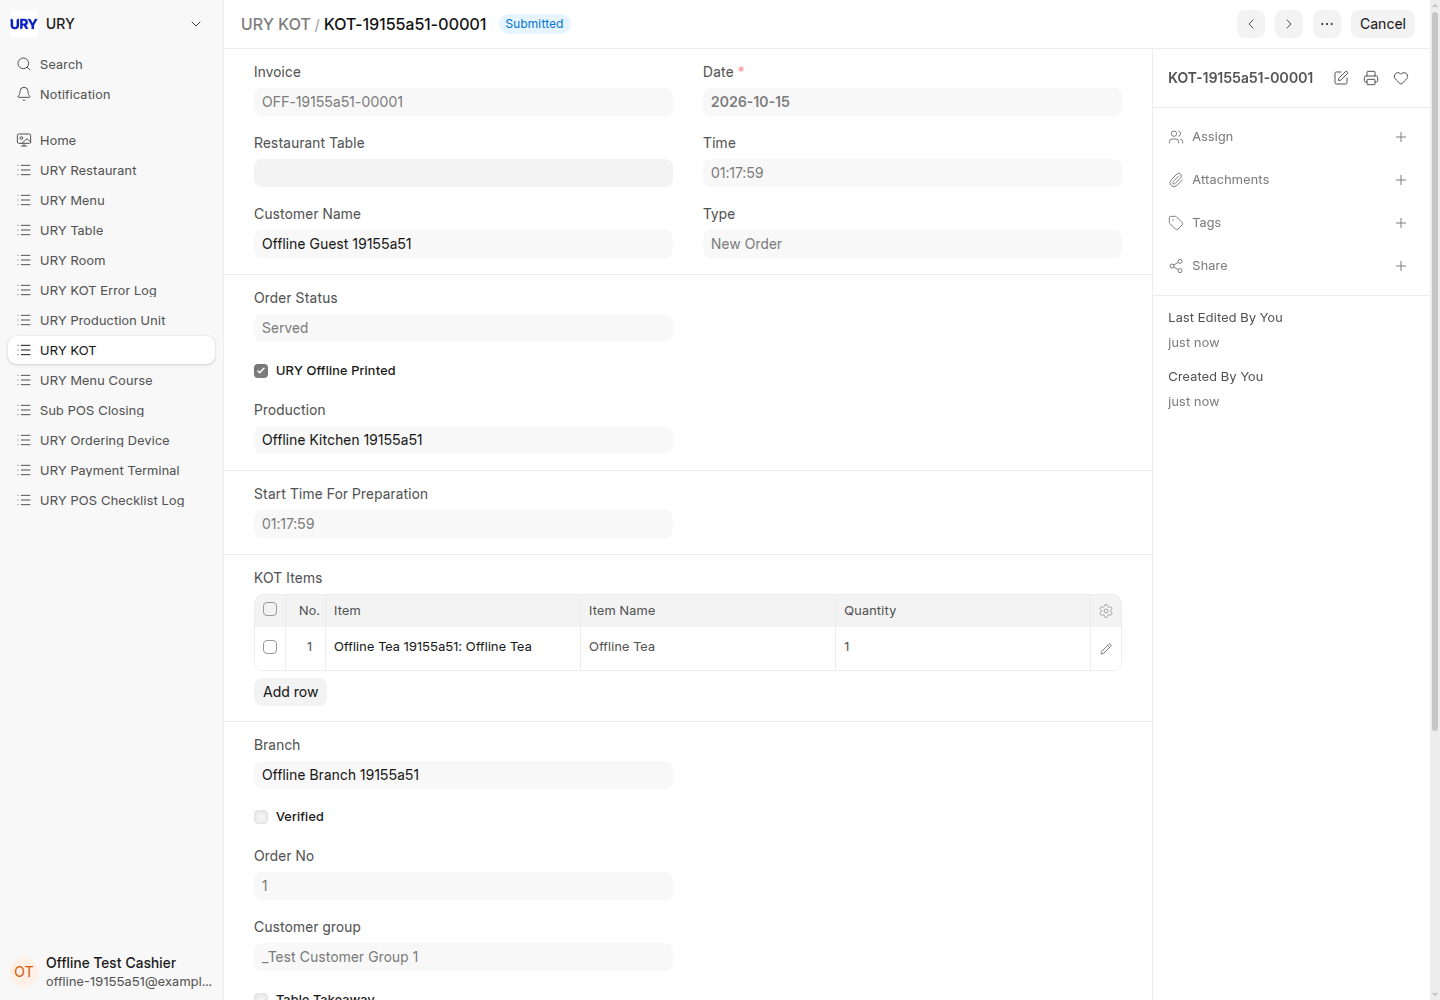
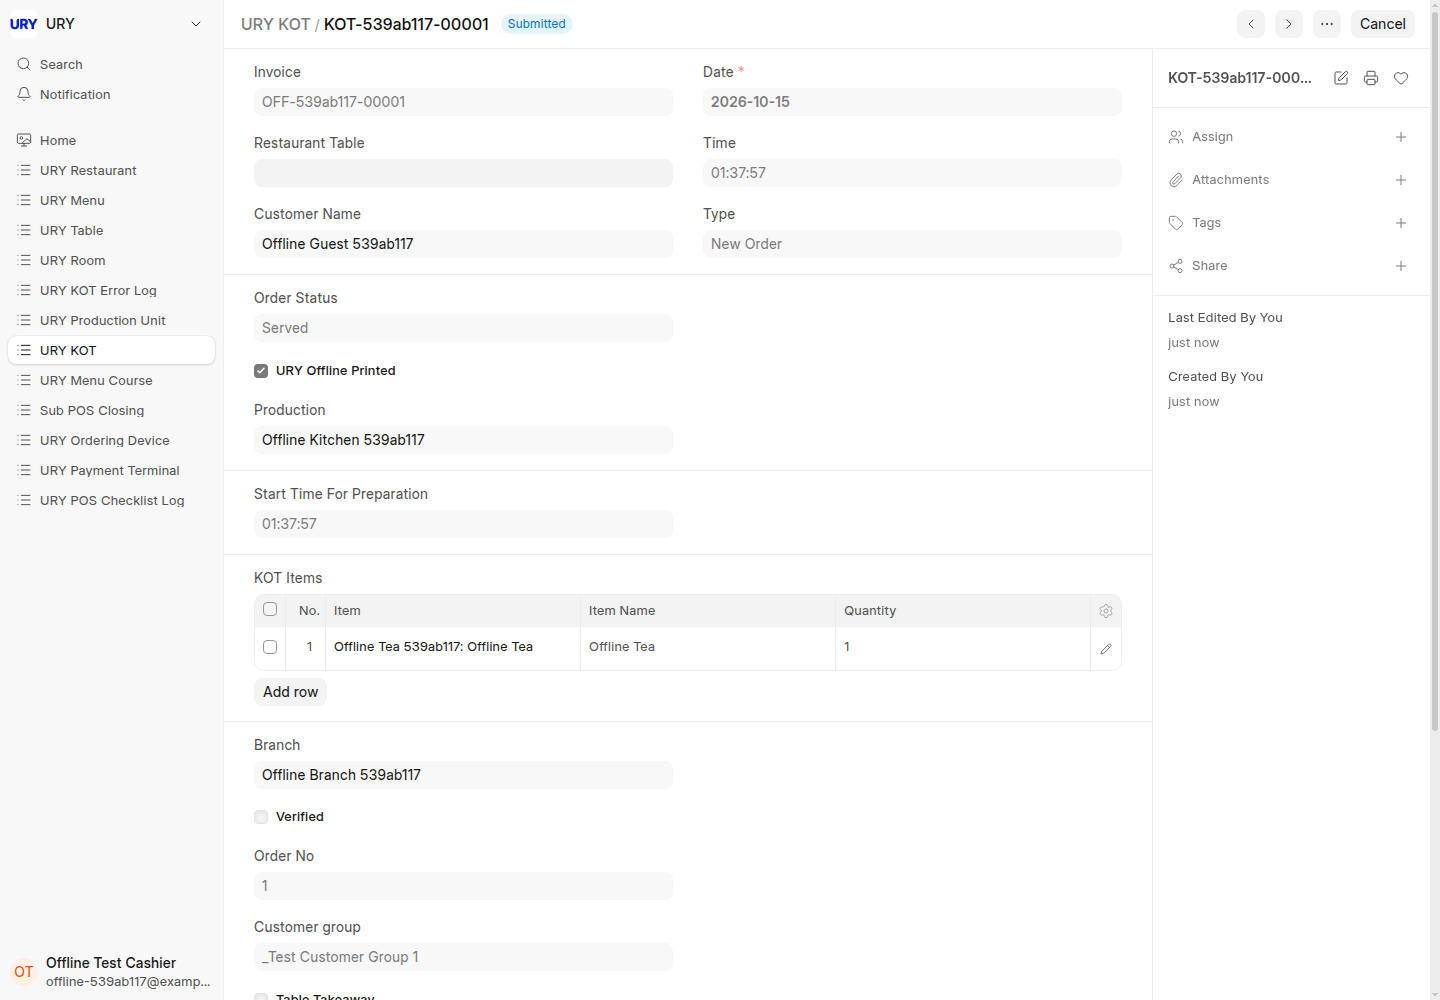
docs: refresh O2 bench screenshots and RED GREEN evidence

diff --git a/docs/evidence/O2/test-output.md b/docs/evidence/O2/test-output.md
@@ -1,0 +1,121 @@
+# O2 native bench evidence
+
+Disposable Docker project `ury-fixes-o2s6-mijnpjnz`; only published address
+`127.0.0.1:18723`. Demo site `ury.localhost`. Frappe 16.52.0,
+ERPNext 16.50.0, Python 3.14.8, Node 24.21.0, MariaDB 11.8, Redis 6.2.
+The bench uses copied worktree sources, native documents, and native exported
+fixtures. Only external printer/realtime seams are intercepted in tests.
+
+## RED and GREEN
+
+Initial tests-only RED `37a357748a8838004b5191c4b5612544fd8c1c11`, on unchanged
+O1 production:
+
+```text
+bench --site ury.localhost run-tests --app ury --module ury.tests.test_offline_replay
+Ran 17 tests in 59.252s
+FAILED (failures=17)
+AssertionError: Lists differ: [1.0] != [2, 1]
+AssertionError: ValidationError not raised
+```
+
+Failures include subtests; no import or setup errors. Missing append,
+capture/refusal, and offline-KOT behaviour. Two baseline protections pass.
+
+Production-only GREEN `4c9687b9dd25c969de2d08002454cdfed223f0b8`:
+
+```text
+Ran 17 tests in 53.730s
+OK
+```
+
+Independent review regression, tests-only RED
+`847c97464b480313ae0901b53eb187180a955fcd`:
+
+```text
+Ran 18 tests
+FAILED (failures=1)
+AssertionError: 'Draft' != 'Failure'
+```
+
+The occupied gate for a non-billing append without snapshot fields was
+restored in production-only GREEN `9d29e6c9678cf129ec5f60094fd2c5471035c452`.
+That candidate, including one passing defaults protection, reports:
+
+```text
+Ran 19 tests in 78.828s
+OK
+```
+
+The defaults protection was strengthened to make the profile disagree with
+the saved order: tests-only RED `0934894f`. The saved invoice header and first
+child are explicitly set to a real leaf cost centre before the profile changes:
+
+```text
+bench --site ury.localhost run-tests --app ury --module ury.tests.test_offline_replay --test test_expected_total_validation_does_not_reset_saved_invoice_defaults
+Ran 1 test in 8.175s
+FAILED (failures=1)
+AssertionError: 'Offline Other ed6962ce-4235-4697-8498-b2e2a0c56b45 - URY' != 'Main - URY'
+```
+
+Native ERPNext v16's `set_missing_values(for_validate=True)` preserves saved
+header and nonempty child accounting defaults while preparing new lines.
+Production-only GREEN `60ddd45eef9ee44a90160d7e3693184264c44af1`:
+
+```text
+Final focused module (including the strengthened regression):
+Ran 19 tests in 77.979s
+OK
+
+Full-app run on the same production fix:
+Ran 31 tests in 126.245s
+OK
+Ran 329 existing tests in 2.464s
+FAILED (failures=1, errors=3)
+frappe.exceptions.DoesNotExistError: DocType Payment Gateway not found
+```
+
+The full-app run preceded the test's final explicit nonempty cost-centre
+strengthening. The final 19-test focused run exercises that strengthened
+test on the identical production fix. The 31-test group includes all
+12 O1 tests and 19 O2 tests. There are no skipped tests in the focused groups.
+
+The final screenshot readback is one invoice and one KOT for a double send:
+`OFF-539ab117-00001`, `KOT-539ab117-00001`, Served, `ury_offline_printed=1`.
+Both PNGs were captured from the running native Desk as a demo cashier using
+fresh headless Chrome profiles, which were removed after each capture.
+
+## Exact-pin baseline and limits
+
+```text
+bench --site ury.localhost run-tests --app ury
+pin 1f652d526d398993a11f740e008e15bbab1deec4:
+Ran 329 tests in 2.974s
+FAILED (failures=1, errors=5)
+frappe.exceptions.DoesNotExistError: DocType Payment Gateway not found
+```
+
+The full legacy run is incomplete, not green. No skips, changed tests, or
+weakened gates were used to hide it. Error-count differences across runs
+are not claimed as fixes to unrelated legacy code.
+
+Existing native ERPNext validation refuses a POS opening whose start date
+is before today's date even if its status remains Open. Same-day captures
+are tested; no overnight-shift override is implemented or claimed.
+
+## Billing-user hazard: proposed upstream issue note only
+
+The coordinator may use this observation in an upstream issue. No upstream
+issue or PR was posted by this implementation, and no failing hazard test
+is committed. The established billing-user NEW-order replacement exemption
+is intentionally unchanged, per the user's decision.
+
+```text
+Ran 1 test in 5.859s
+FAILED (failures=1)
+AssertionError: 1.0 != 2 :
+NEW billing order silently replaced occupied order OFF-fca76d5b-00001
+```
+
+Offline replay uses `append=1`, so it adds round lines rather than using
+that existing replacement path.
